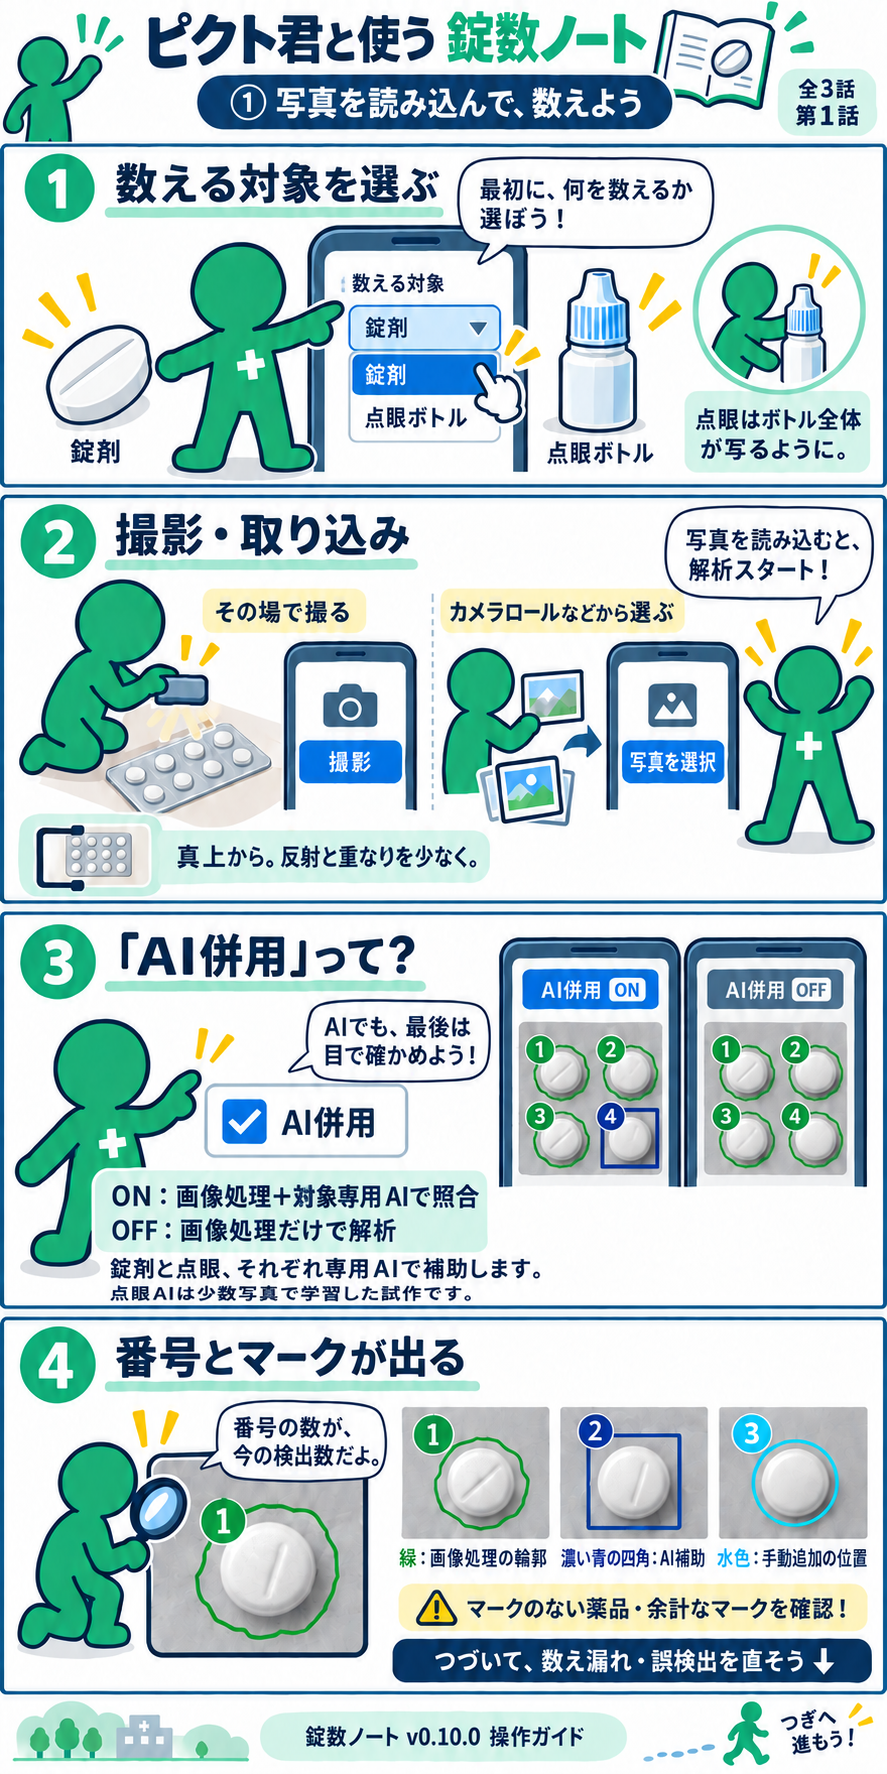
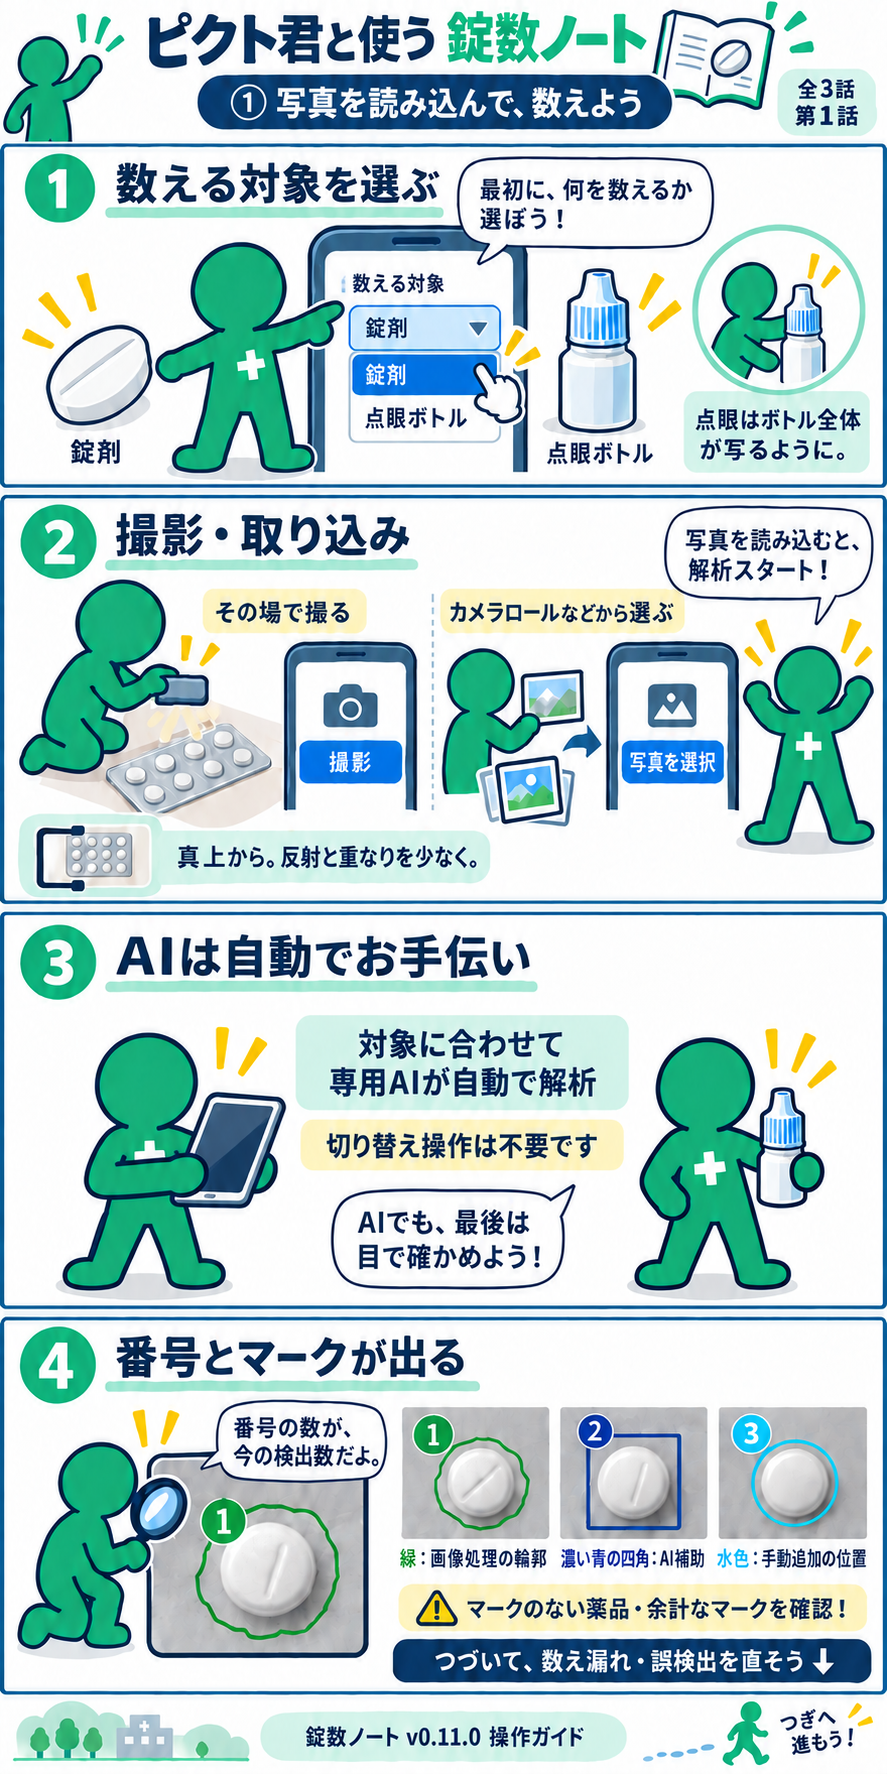
Explain always-on AI and automatic learning in the comic

diff --git a/public/guide/index.html b/public/guide/index.html
@@ -11,10 +11,10 @@
 <body>
 <header><h1>ピクト君と使う 錠数ノート</h1><nav aria-label="各章へ移動"><a href="#count">① 撮影・検出</a><a href="#edit">② 編集・拡大</a><a href="#save">③ 確認・保存</a></nav></header>
 <main>
-<figure id="count"><img src="01-count.png" alt="第1章。錠剤・点眼ボトルを選び、撮影または写真を選択。AI併用は錠剤・点眼それぞれの専用AIで検出を補助。点眼AIは少数写真で学習した試作。緑の輪郭は画像処理、濃い青の四角はAI補助、水色は手動追加。最後は目で確認。"><figcaption><a href="01-count.png" download>第1章の画像を保存</a></figcaption></figure>
+<figure id="count"><img src="01-count.png" alt="第1章。錠剤・点眼ボトルを選び、撮影または写真を選択。錠剤・点眼それぞれの専用AIが自動で検出を補助。点眼AIは少数写真で学習した試作。緑の輪郭は画像処理、濃い青の四角はAI補助、水色は手動追加。最後は目で確認。"><figcaption><a href="01-count.png" download>第1章の画像を保存</a></figcaption></figure>
 <figure id="edit"><img src="02-edit.png" loading="lazy" alt="第2章。選択、追加、削除で結果を編集。範囲指定と解除は再解析、範囲削除はまとめて削除。元に戻す、やり直す、補正を全リセット。番号付き画像を拡大は閲覧専用、編集画面の拡大バーでは拡大して編集できる。"><figcaption><a href="02-edit.png" download>第2章の画像を保存</a></figcaption></figure>
-<figure id="save"><img src="03-save.png" loading="lazy" alt="第3章。すべての番号と数え漏れを目視確認してチェック。結果画像を保存すると番号と編集結果、右下の個数入りPNGを保存できる。確認済みの結果を学習用に保存する操作は、結果画像の保存とは別。"><figcaption><a href="03-save.png" download>第3章の画像を保存</a></figcaption></figure>
+<figure id="save"><img src="03-save.png" loading="lazy" alt="第3章。すべての番号と数え漏れを目視確認してチェック。結果画像を保存すると番号と編集結果、右下の個数入りPNGを保存できる。補正から端末内で自動学習。次の画像・終了時に反映し、学習用画像は残しません。"><figcaption><a href="03-save.png" download>第3章の画像を保存</a></figcaption></figure>
 </main>
-<footer><p>錠数ノート v0.10.0 の仕様を確認した操作ガイドです。画面図は説明用に簡略化しています。</p><a href="#">先頭に戻る ↑</a></footer>
+<footer><p>錠数ノート v0.11.0 の仕様を確認した操作ガイドです。画面図は説明用に簡略化しています。</p><a href="#">先頭に戻る ↑</a></footer>
 </body>
 </html>

diff --git a/public/guide/PROVENANCE.md b/public/guide/PROVENANCE.md
@@ -10,3 +10,7 @@ Edit this completed Japanese comic, preserve layout, all art, all other Japanese
 
 Create one app mascot illustration matching the green faceless pictogram people in the reference instructional comic. Reference is STYLE only, do not reproduce the comic. Single friendly solid emerald green round-headed pictogram person, blank face, thick rounded limbs, subtle dark navy outline, white plus sign on chest, holding a dark navy tablet with one simple white pill icon while raising the other hand in greeting. Bust/upper body, simple bold silhouette legible at 80px. Centered square image, clean opaque WHITE background, no words, no letters, no speech bubbles, no shadows, no extra panels. Crisp flat public-information pictogram style with small mint accent.
 
+
+
+## v0.11.0
+01-count.png and 03-save.png edited with the built-in image generator. Section 3 now describes always-on target-specific AI; section 11 describes automatic on-device correction learning and deletion of training images. Other sections are preserved. Both outputs visually inspected.
